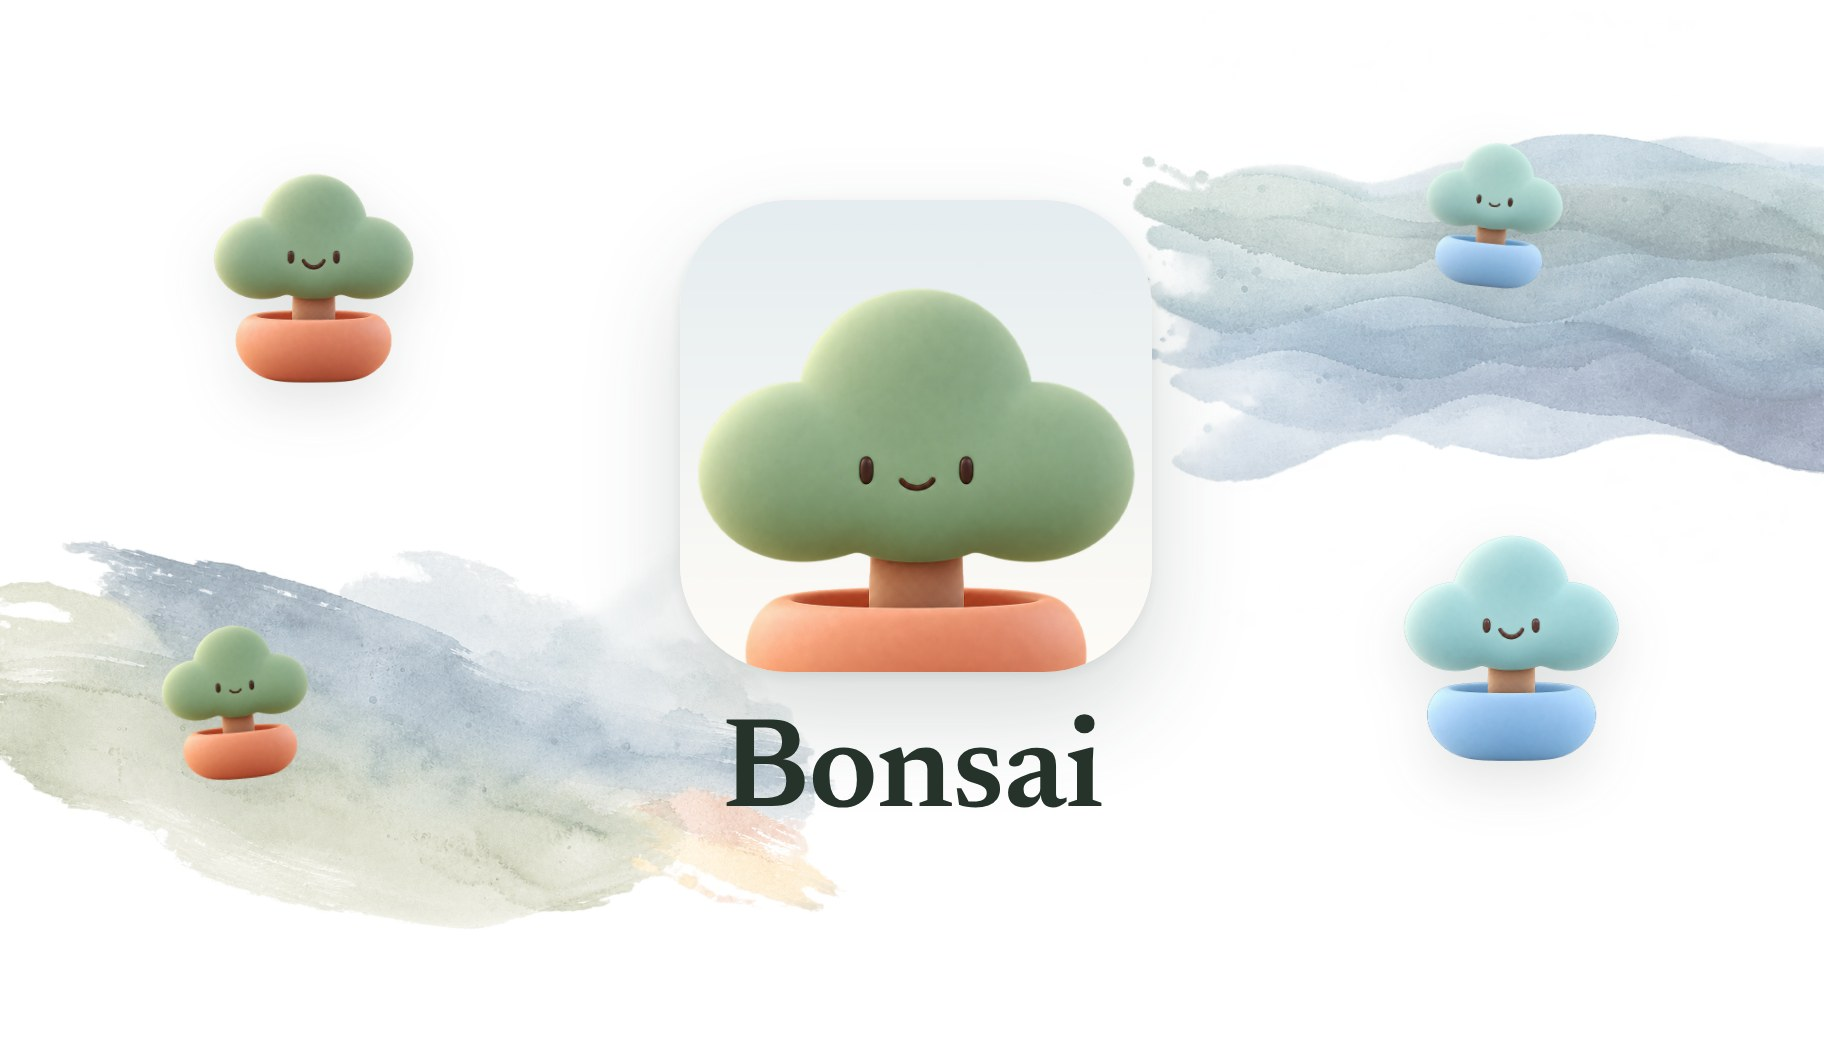
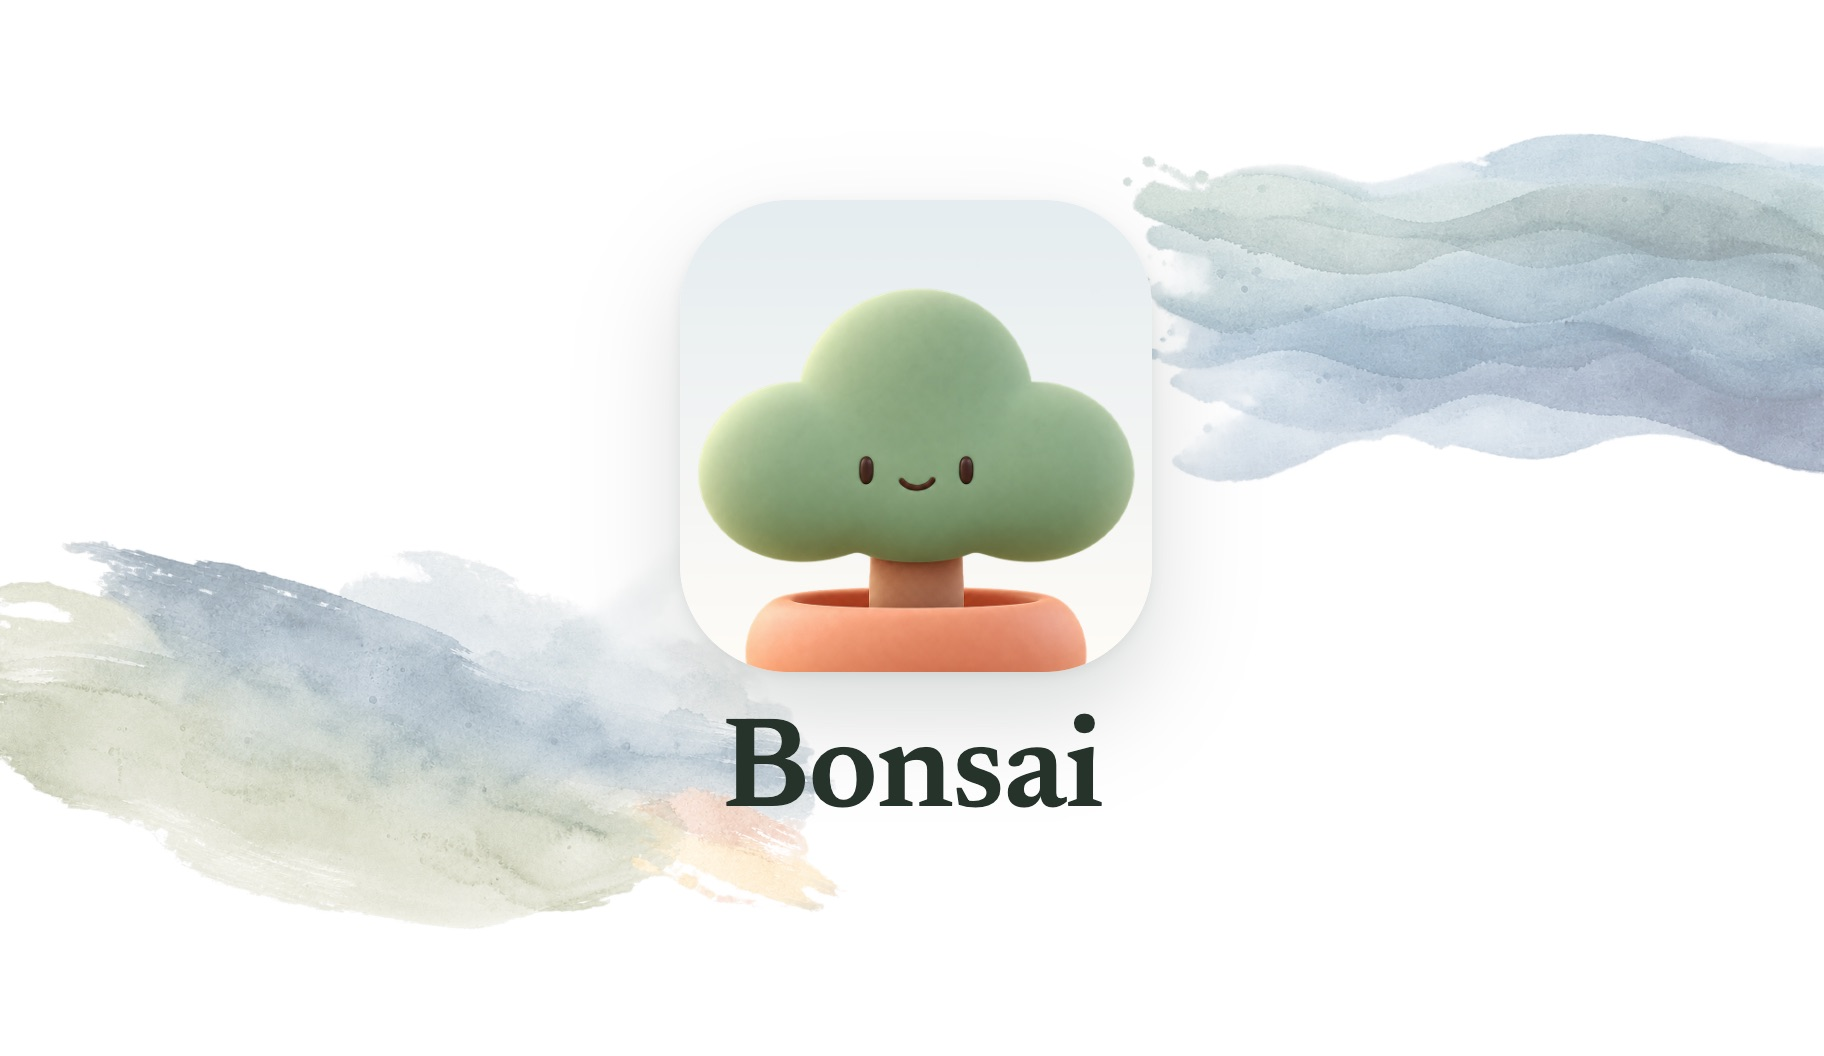
Remove the small mascots from the Bonsai product image

diff --git a/ja/products/index.html b/ja/products/index.html
@@ -128,7 +128,7 @@
 
 <article class="product-row" id="bonsai">
 
-<div class="product-media product-media--screenshots"><img src="/images/20261107/bonsai.jpg" alt="Bonsai app icon and wordmark surrounded by the clay bonsai mascot in day and night colors on watercolor washes" loading="lazy"></div>
+<div class="product-media product-media--screenshots"><img src="/images/20261107/bonsai.jpg" alt="Bonsai app icon and wordmark on watercolor washes" loading="lazy"></div>
 <div class="product-details"><div class="product-platforms"></div><h2>Bonsai <span class="tag product-badge">Coming Soon</span></h2>
 
 <p class="product-description">「Fed by your life, tending it back」。個人目標OS、あなたの AI セカンドブレイン。</p>

diff --git a/products/index.html b/products/index.html
@@ -128,7 +128,7 @@
 
 <article class="product-row" id="bonsai">
 
-<div class="product-media product-media--screenshots"><img src="/images/20261107/bonsai.jpg" alt="Bonsai app icon and wordmark surrounded by the clay bonsai mascot in day and night colors on watercolor washes" loading="lazy"></div>
+<div class="product-media product-media--screenshots"><img src="/images/20261107/bonsai.jpg" alt="Bonsai app icon and wordmark on watercolor washes" loading="lazy"></div>
 <div class="product-details"><div class="product-platforms"></div><h2>Bonsai <span class="tag product-badge">Coming Soon</span></h2>
 
 <p class="product-description">“说出目标，长出属于它的界面”。个人目标操作系统，你的AI外置大脑。</p>

diff --git a/en/products/index.html b/en/products/index.html
@@ -128,7 +128,7 @@
 
 <article class="product-row" id="bonsai">
 
-<div class="product-media product-media--screenshots"><img src="/images/20261107/bonsai.jpg" alt="Bonsai app icon and wordmark surrounded by the clay bonsai mascot in day and night colors on watercolor washes" loading="lazy"></div>
+<div class="product-media product-media--screenshots"><img src="/images/20261107/bonsai.jpg" alt="Bonsai app icon and wordmark on watercolor washes" loading="lazy"></div>
 <div class="product-details"><div class="product-platforms"></div><h2>Bonsai <span class="tag product-badge">Coming Soon</span></h2>
 
 <p class="product-description">“Fed by your life, tending it back.” A personal goal operating system, your AI second brain.</p>
